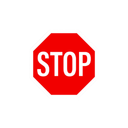
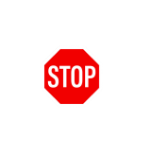
Add files via upload

Changed region(s): [[0.25, 0.25, 0.75, 0.75]]

diff --git a/js/game.js b/js/game.js
@@ -124,7 +124,7 @@ function playNizarCrashSound() {
 }
 
 // Versioned local progress with a backup copy and import/export support.
-const GAME_VERSION = '2.11.3';
+const GAME_VERSION = '2.11.4';
 const SAVE_SCHEMA_VERSION = 10;
 const COSMETIC_REWARD_VERSION = 2;
 const SAVE_KEY = 'br_save_v2';

diff --git a/service-worker.js b/service-worker.js
@@ -1,4 +1,4 @@
-const CACHE_NAME = 'calebs-shift-v71';
+const CACHE_NAME = 'calebs-shift-v72';
 const FILES_TO_CACHE = [
   './',
   './index.html',

diff --git a/CHANGELOG.md b/CHANGELOG.md
@@ -1,5 +1,10 @@
 # Changelog
 
+## 2.11.4
+
+- Replaced the Subway cosmetic assets with the new 144×144 versions.
+- Bumped the offline cache to `calebs-shift-v72`.
+
 ## 2.11.3
 
 - Replaced the Stop Sign Mask, Headlight, and Train Skin assets with the new 128×128 versions.
